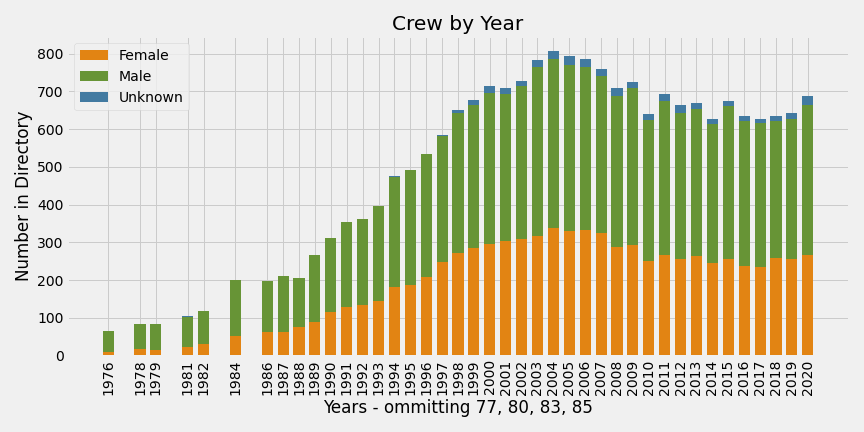
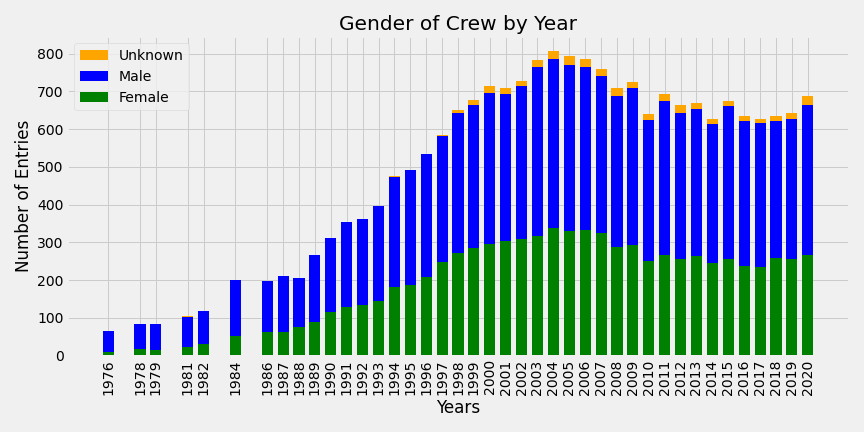
updates example page

diff --git a/example.html b/example.html
@@ -7,19 +7,69 @@
 
     <link rel="stylesheet" href="https://cdnjs.cloudflare.com/ajax/libs/font-awesome/5.12.0-2/css/all.min.css" integrity="sha256-46r060N2LrChLLb5zowXQ72/iKKNiw/lAmygmHExk/o=" crossorigin="anonymous" />
     <link rel="stylesheet" href="css/webslides.css">
-    <title>Film Bang Directory</title>
+    <title>Film Bang 1976-2020</title>
 </head>
 <body>
     <main role="main">
         <article id="webslides" class="horizontal">
 
             <!-- Slide 1 -->
+
+
             <section>
-                <span class="background" style="background-image:url('images/filmbang-guide-e1585304799547.jpg')"></span>
+                <div class="wrap size-50">
+                    <!-- <h2><strong>Film Bang 1976-2020 - Resilience and Sustainability for Freelance Careers in the Screen Industries</strong></h2> -->
+                    <!-- <p class="text-intro">
+                        Project goals
+                    </p> -->
+                    <div class="bg-white shadow">
+                        <div class="">
+                          <h2><strong>Film Bang 1976-2020 - Resilience and Sustainability for Freelance Careers in the Screen Industries</strong></h2>
+<br>
+                                <p class="text-intro">Alistair Scott & Neil Davidson<p>
+                                  <!-- <p class="text-intro">Neil Davidson</p> -->
+                        </div>
+                    </div>
+                </div>
             </section>
 
 
 
+            <!-- Slide 2 -->
+            <section>
+                <span class="background" style="background-image:url('images/filmbang-directory.jpg')"></span>
+            </section>
+
+
+
+            <!-- Slide 3 -->
+
+
+            <section>
+                <div class="wrap size-50 aligncenter">
+                    <h2><strong>What have we done?</strong></h2>
+                    <!-- <p class="text-intro">
+                        Project goals
+                    </p> -->
+                    <div class="bg-white shadow">
+                        <ul class="flexblock reasons">
+                            <li>
+                                <h2>Quantitative</h2>
+                                  <p>Charting Gender Breakdown of workforce, departmental growth, longevity, turnover,the makeup of each department</p>
+                            </li>
+                            <li>
+                                <h2>Qualitative</h2>
+                                <p>Querying the current Film Bang community with an online survey, and interviewing a range Film Bang freelancers</p>
+                            </li>
+                        </ul>
+                    </div>
+                </div>
+            </section>
+
+
+
+
+            <!-- Slide 4 Growth-->
 
             <section>
                 <div class="aligncenter">
@@ -29,10 +79,93 @@
 
 
 
+            <!-- Slide 5  charts showing sector complexity -->
 
             <section>
+                <div class="aligncenter">
+                    <img src="" alt="">
+                    <p>showing sector complexity</p>
+                </div>
+            </section>
+
+
+
+
+            <!-- Slide 6 Challenges  -->
+
+
+                        <section>
+                            <div class="wrap">
+                                <h2><strong>
+                                    Challenges
+                                </strong></h2>
+
+                                <div class="grid vertical-align">
+                                    <div class="column">
+                                        <!-- <h4><strong>Heading 1</strong></h4> -->
+                                        <ul class="description">
+                                            <li>
+                                                <p>Reliance on published historic material with no form of verification</p>
+                                            </li>
+                                            <li>
+                                                <p>Gender inferred according to  name or anecdotal evidence</p>
+                                            </li>
+                                            <li>
+                                                <p>Presence in the directory is not a proof of work</p>
+                                            </li>
+                                            <li>
+                                                <p>No data on diversity in terms of ethnicity, disability, age, background, gender+, sexuality</p>
+                                            </li>
+                                            <li>
+                                                <p>Geographic location is only recorded up to 2015</p>
+                                            </li>
+                                            <li>
+                                              <p>Listings 1976-1989  were mandatory due to union rules. Since 1990 listings are voluntary</p>
+                                            </li>
+                                        </ul>
+                                    </div>
+
+                                </div>
+                            </div>
+                        </section>
+
+
+
+
+            <!-- Slide 7 context for growth and decline -->
+
+            <section>
+
               <div class="aligncenter">
+
                   <img src="images/workers_by_year_key_dates.png" alt="">
+
+              </div>
+            </section>
+
+            <section>
+
+              <div class="aligncenter">
+
+                  <img src="images/timeframes.png" alt="">
+
+              </div>
+            </section>
+
+
+            <!-- Slide 8 reslient and stable careers  -->
+
+
+<secton><p>8 resilient and stable careers - pending</p></secton>
+
+
+
+
+            <!-- Show depts with growth and longevity and vice versa -->
+            <section>
+              <div class="aligncenter size-80">
+                  <img src="" alt="">
+                  <p>depts with growth and longevity</p>
               </div>
             </section>
 
@@ -40,31 +173,74 @@
 
             <section>
               <div class="aligncenter size-80">
-                  <img src="images/number_in_non_specialist_dept_by_year>1yr.png" alt="">
+                  <img src="" alt="">
+                  <p>depts without growth and longevity</p>
+
               </div>
             </section>
 
 
-
-
+            <!-- Slide 9 Policy Proposals  -->
             <section>
               <div class="aligncenter size-80">
-                  <img src="images/number_in_specialist_film_dept_by_year>1yr.png" alt="">
-              </div>
-            </section>
+                  <img src="" alt="">
+                  <p>optional chart informing policy proposals</p>
 
-
-
-            <section>
-              <div class="aligncenter size-80">
-                  <img src="images/career_length/length_career_over_10_yrs_2020.png" alt="">
               </div>
             </section>
 
             <section>
               <div class="aligncenter size-80">
-                  <img src="images/career_length/length_career_under_10_yrs_2020.png" alt="">
+                  <img src="" alt="">
+                  <p>optional chart informing policy proposals</p>
+
               </div>
+            </section>
+
+            <section>
+                <div class="wrap">
+                    <h2><strong>
+                        Policy Proposals:
+                    </strong></h2>
+                    <!-- <p>Some basic numbers outlining the shape of the data</p> -->
+                    <div class="grid vertical-align">
+
+                        <div class="column">
+                            <!-- <h4><strong>Roles</strong></h4> -->
+                            <ul class="description">
+                                <li>
+                                    <p>Co-ordinated engagement with other stakeholders</p>
+                                </li>
+                                <li>
+                                    <p>HMRC to review employment status of freelancers in film and television</p>
+                                </li>
+                                <li>
+                                    <p>Recognition of the interdependency of freelancers and the broadcasters and larger independent companies</p>
+                                </li>
+                                <li>
+                                    <p>Co-ordinated & integrated industry approach to training, support, retraining</p>
+                                </li>
+
+
+                            </ul>
+                        </div>
+
+                        <div class="column">
+                            <!-- <h4><strong>Roles</strong></h4> -->
+                            <ul class="description">
+                              <!-- <li>
+                                  <p>Co-ordinated & integrated industry approach to training, support, retraining</p>
+                              </li> -->
+                              <li>
+                                  <p>Industry-wide review of barriers to sustained careers – insecurity of employment, unpredictable contracts and working hours, expectation of unpaid overtime, issues with work/life balance, burn-out</p>
+                              </li>
+                              <li>
+                                  <p>Training and career retention initiatives to be part of the Scottish film studio proposals.</p>
+                              </li>
+                            </ul>
+                        </div>
+                    </div>
+                </div>
             </section>
 
 
@@ -74,23 +250,36 @@
             <section class="slide-bottom">
                 <div class="wrap">
                     <div class="content-right text-serif">
-                        <h2><strong>Funders</strong></h2>
+                        <h2><strong></strong></h2>
                         <ul class="flexblock gallery">
-                            <li>
+
+                            <li style="background: white;">
+                                <img src="images/logos/Edinburgh_Napier_Uni_Logo_Small_730_290_80.jpg" alt="">
+                            </li>
+                            <li style="background: white;">
+                                <img src="images/logos/lMtmQwXy_400x400_.png" alt="">
+                            </li>
+
+                            <li style="background: white;">
                                 <img src="images/logos/nesta-logo.jpg" alt="">
                             </li>
                             <li>
-                                <img src="images/logos/lMtmQwXy_400x400_.png" alt="">
-                            </li>
-                            <li>
-                                <img src="images/logos/Edinburgh_Napier_Uni_Logo_Small_730_290_80.jpg" alt="">
+                                <img src="images/logos/filmbanglogo.jpg" alt="">
                             </li>
                         </ul>
-                            <a href="#">Link?</a>
+                            <!-- <a href="#">Link?</a> -->
                         </p>
                     </div>
                 </div>
             </section>
+
+
+
+
+
+
+
+
         </article>
     </main>
     <script src="js/webslides.js"></script>

diff --git a/index.html b/index.html
@@ -220,7 +220,15 @@
             </section>
 
 
-            <!-- Slide 9 -->
+            <section>
+                <div class="aligncenter">
+                    <img src="images/entries_per_year.png" alt="">
+                </div>
+            </section>
+
+
+
+            <!-- CREW BY YEAR-->
 
 
             <section>
